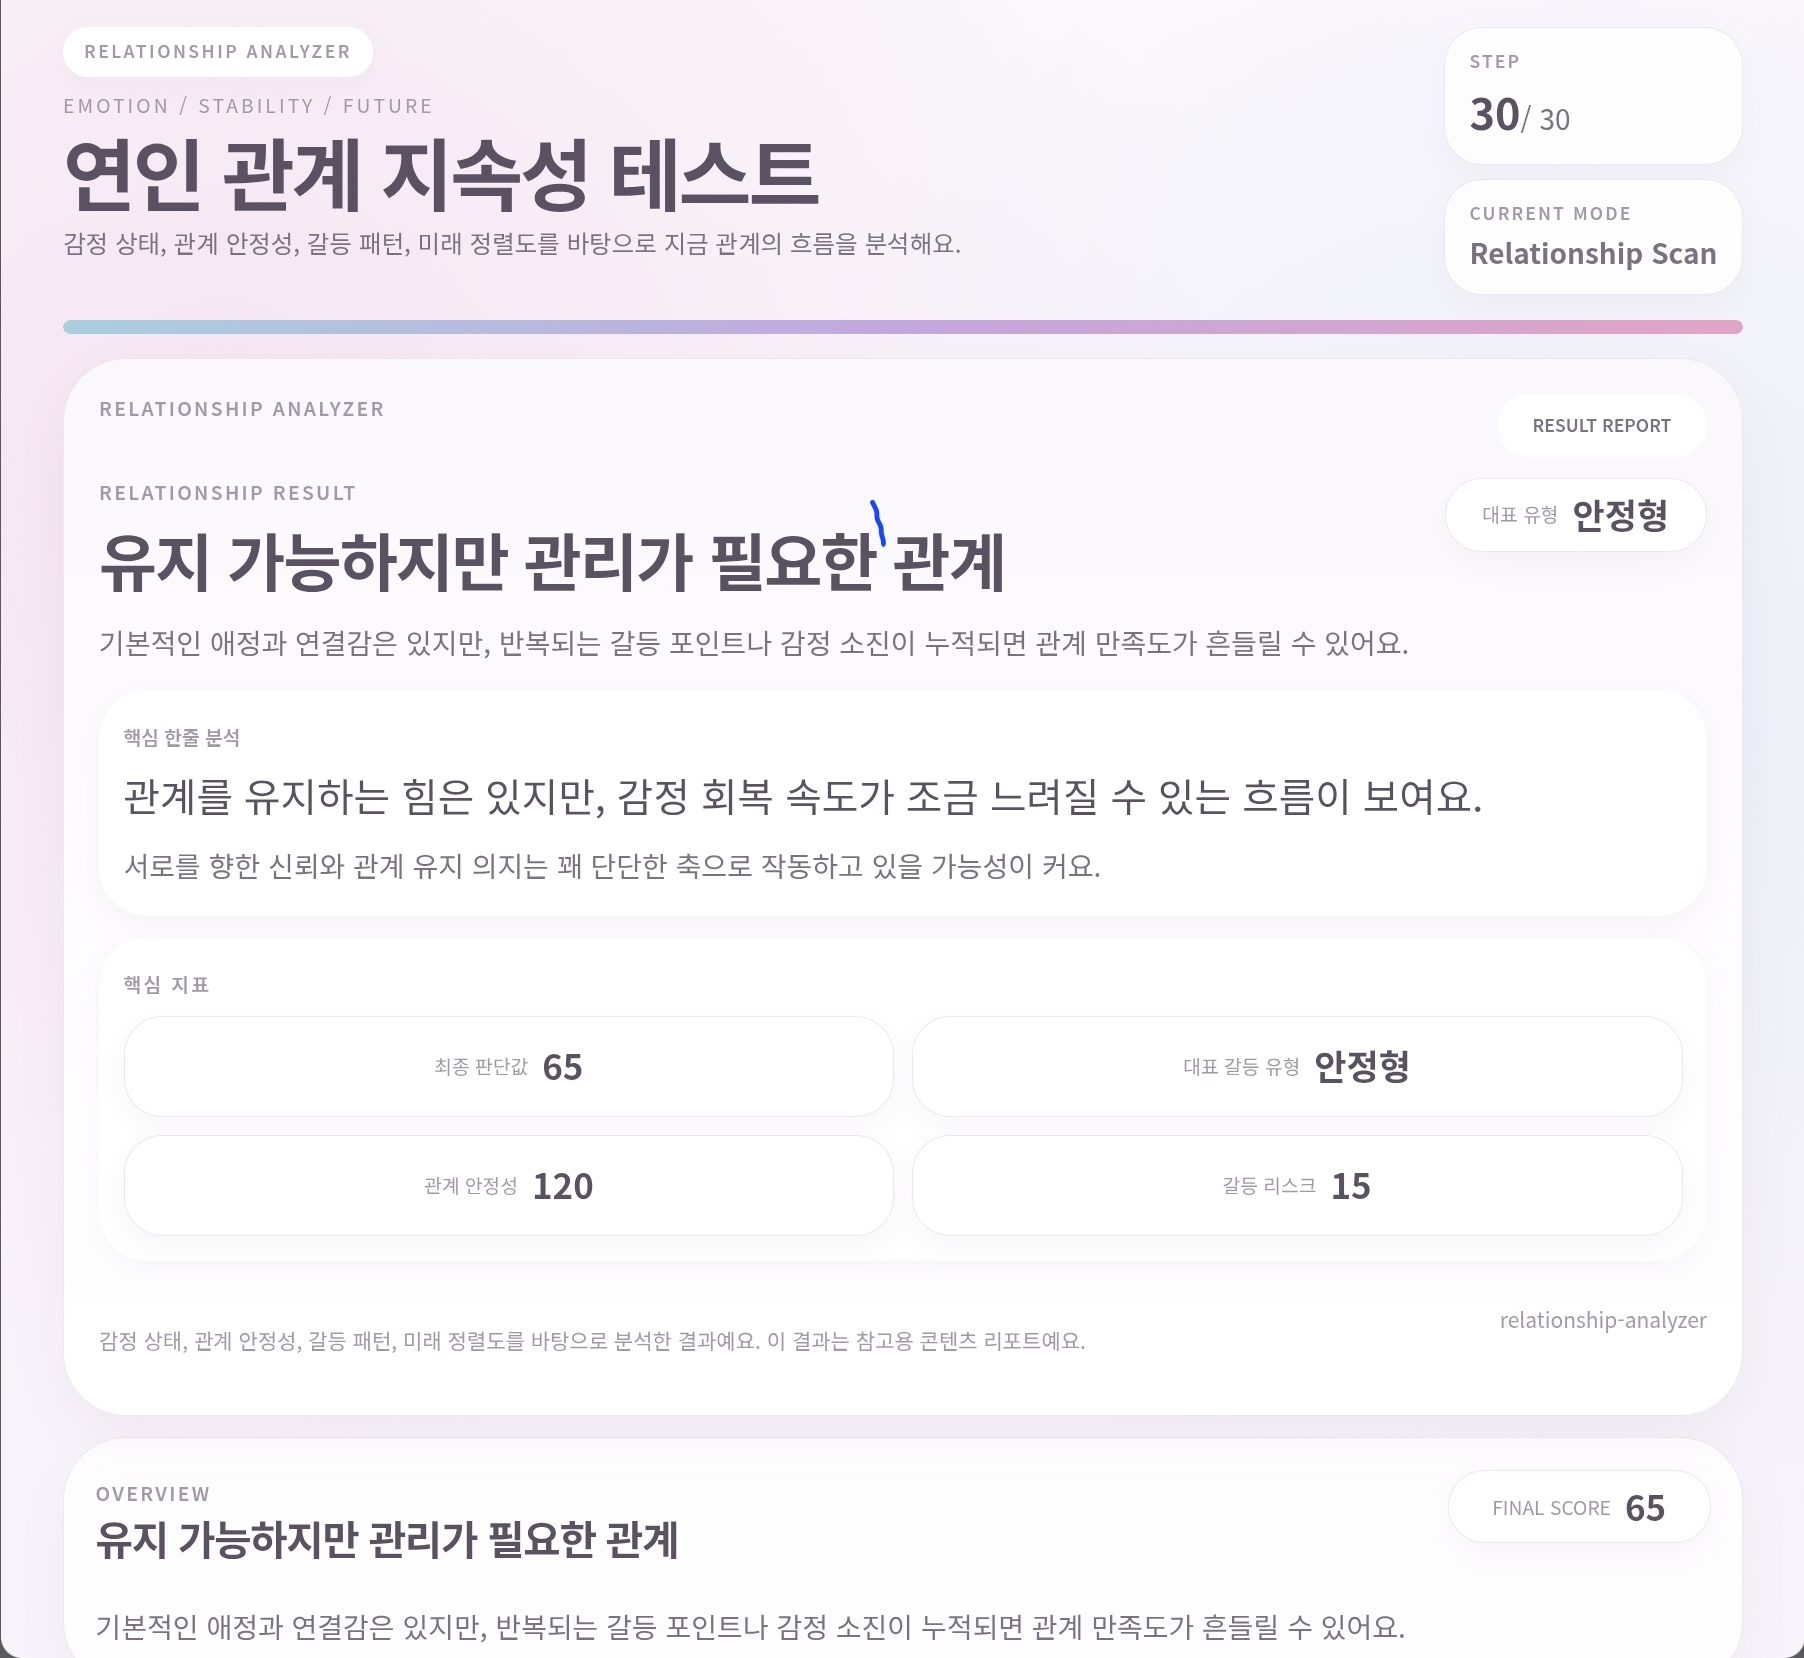
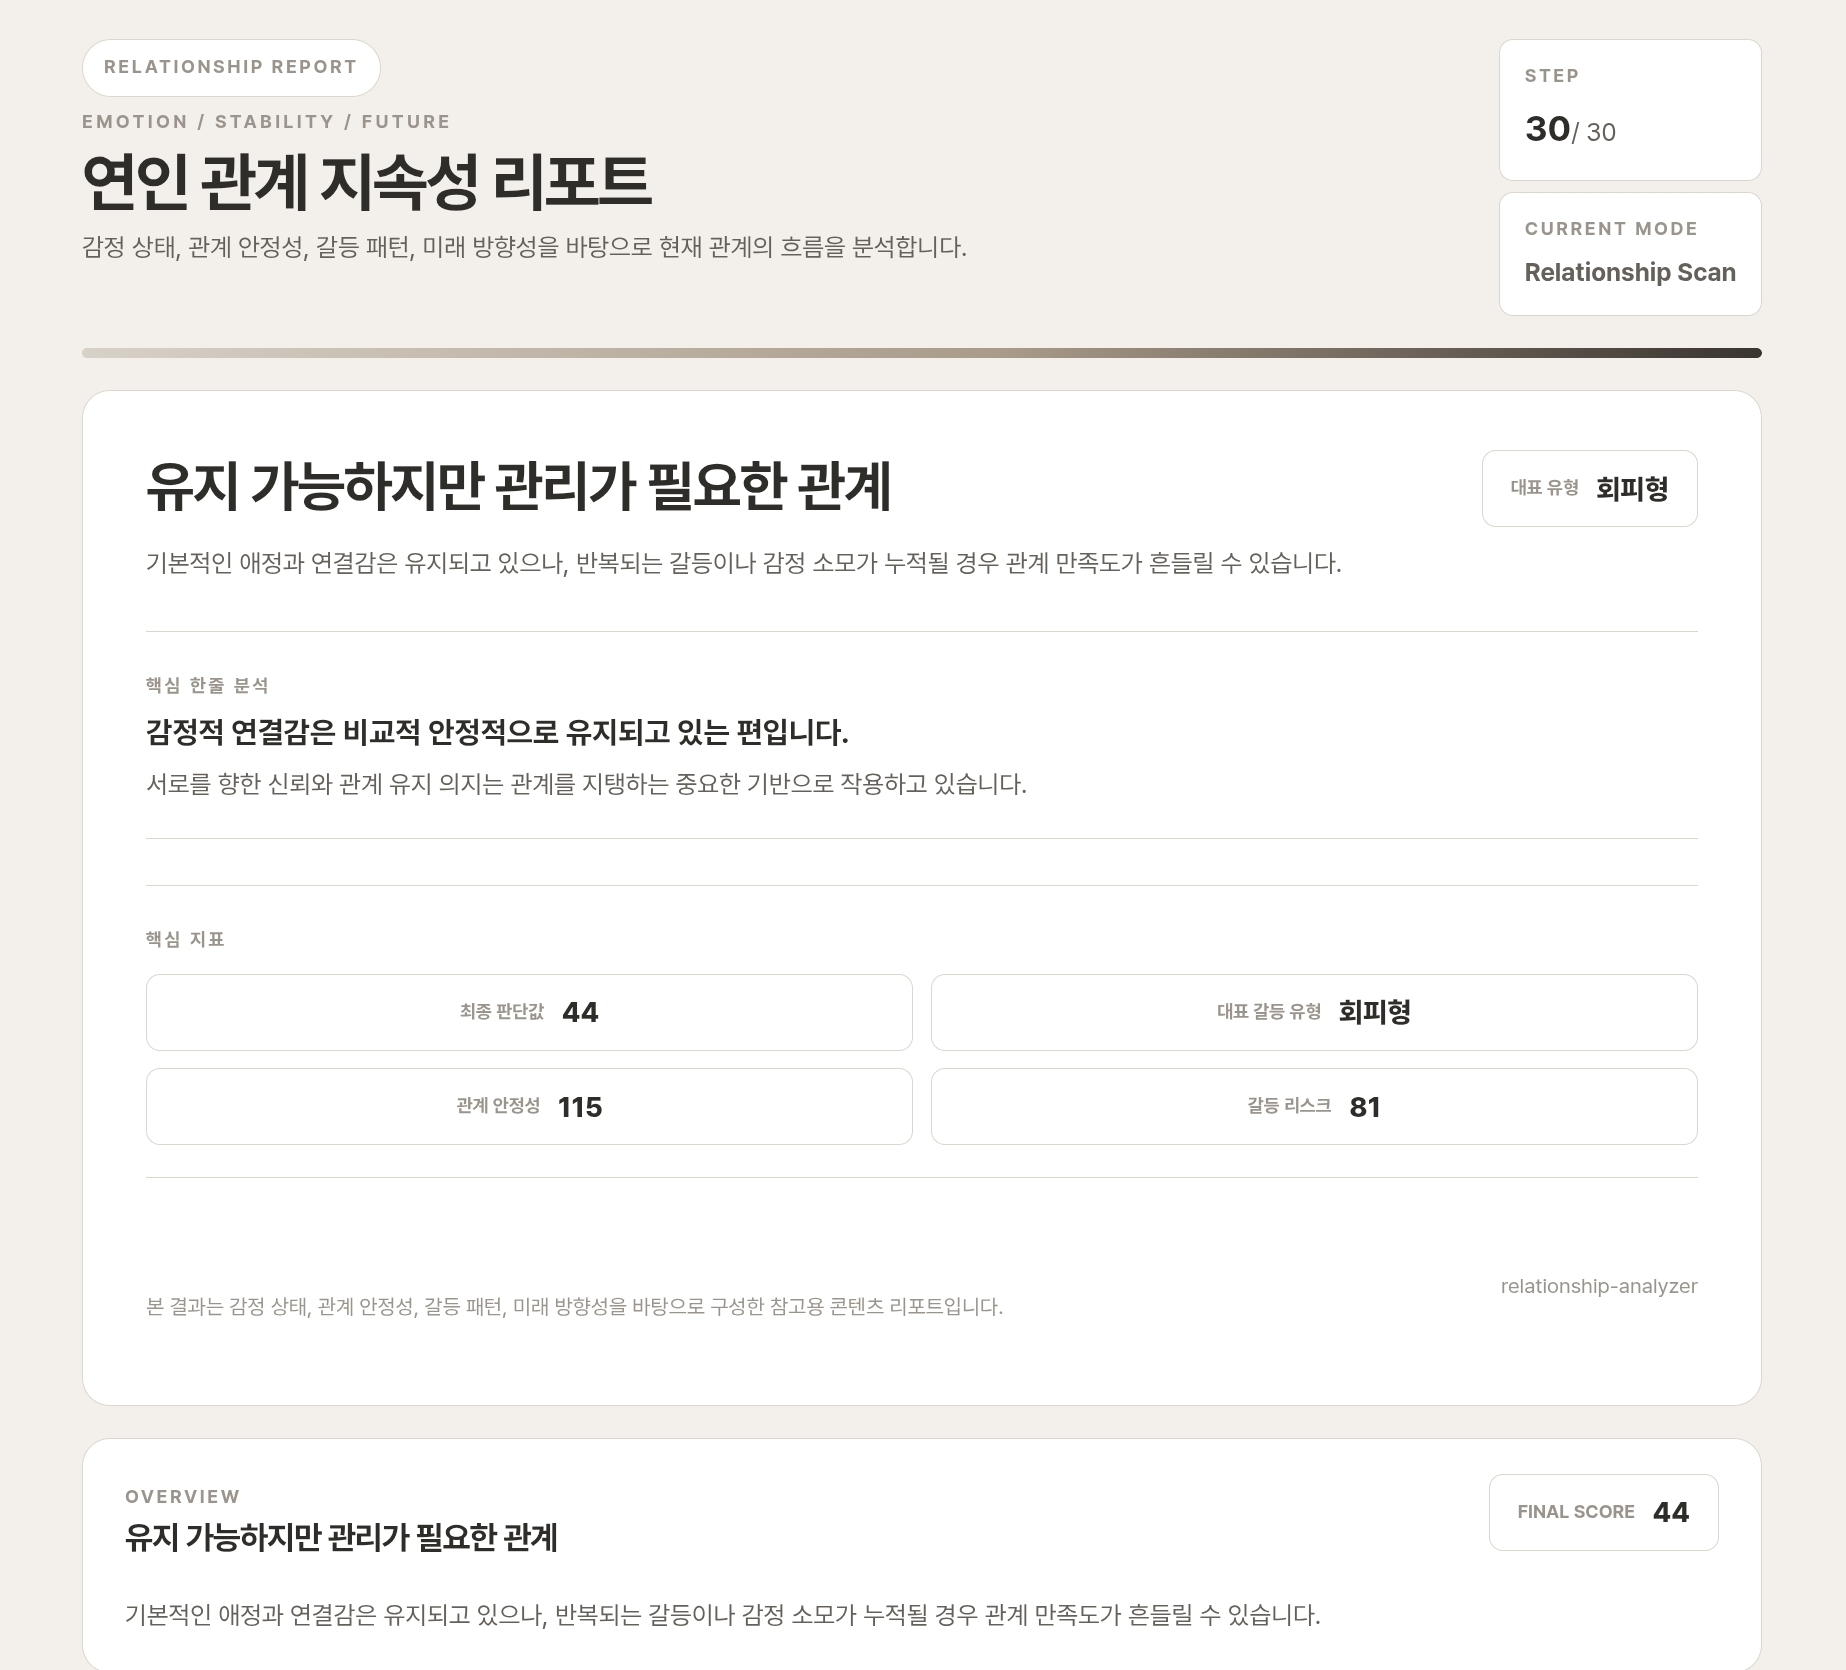
Refresh portfolio project descriptions and content

diff --git a/src/data/projects.ts b/src/data/projects.ts
@@ -17,21 +17,22 @@ export const projects: Project[] = [
     category: "Personal Project",
     title: "Relationship Analyzer",
     description:
-      "질문 기반 진단을 통해 관계의 감정 소모, 안정성, 갈등 위험을 점검하고 응답 결과를 점수와 " +
-      "유형별 리포트로 제공하는 React 기반 관계 분석 웹서비스입니다." +
-      "\n\n분석 로직 분리부터 결과 이미지 저장·공유, 배포까지 전체 서비스 흐름을 직접 구현했습니다.",
-
+      "질문 기반 진단을 통해 관계의 감정 상태, 안정성, 갈등 패턴, 미래 방향성을 분석하고 " +
+      "무료 결과와 프리미엄 리포트 형태로 제공하는 React 기반 관계 분석 웹서비스입니다." +
+      "\n\n분석 로직 분리, 리포트형 UI 설계, 프리미엄 콘텐츠 구조, 결과 이미지 저장·공유, " +
+      "GitHub Pages 배포까지 전체 서비스 흐름을 직접 구현했습니다.",
     stack: ["React", "Vite", "JavaScript", "html2canvas", "GitHub Pages"],
     points: [
-      "질문 기반 관계 진단 플로우와 점수 계산 로직을 구현했습니다.",
-      "퀴즈 진행 상태와 분석 로직을 Custom Hook으로 분리했습니다.",
-      "결과 리포트와 이미지 저장·공유 기능을 구현했습니다.",
+      "질문 기반 관계 진단 플로우와 점수·위험도 계산 로직을 구현했습니다.",
+      "감정 상태, 관계 안정성, 갈등 패턴, 미래 방향성 기준의 리포트 구조를 설계했습니다.",
+      "무료 결과와 프리미엄 리포트 영역을 분리하고, 상세 분석·대화 가이드·7일 회복 가이드를 구성했습니다.",
+      "결과 리포트 PNG 저장, Web Share API 공유, 클립보드 복사 대체 동작을 구현했습니다.",
       "GitHub Pages를 통해 실제 접근 가능한 서비스로 배포했습니다.",
     ],
     demo: "https://coffee-and.github.io/relationship-analyzer/",
     github: "https://github.com/coffee-and/relationship-analyzer",
     image: `${import.meta.env.BASE_URL}projects/relationship-analyzer.png`,
-    imageAlt: "Relationship Analyzer 서비스 화면",
+    imageAlt: "Relationship Analyzer 관계 리포트 서비스 화면",
   },
   {
     id: "news-monitor",
